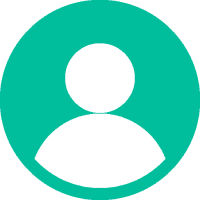
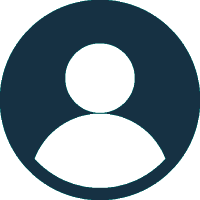
Se agregaron nuevos estilos a iconos

diff --git a/page/admin.html b/page/admin.html
@@ -70,6 +70,8 @@
     <div class="container">
         <div class="row align-items-center h-100">
             <div class="col-12 col-sm-7 col-lg-7 mx-auto">
+              <h1 class="titt text-center titAdm">Agregar servicio</h1>
+              <hr>
                 <form id="form-servicio">
                     <div class="form-row">
                         <div class="col-md-6 mb-3">
@@ -100,11 +102,14 @@
                             <label class="titleFormat" for="validatedCustomFil">Ingresa imagen referente al servicio:</label>
                             
                             <br />
+                            <!--<button id="upload_widget" class="cloudinary-button">Upload files</button>-->
                             <input type="file" class="fileAdd " id="validatedCustomFile" required />
+                            
+
                             <div id="imagenDemo"></div>
                         </div>
                     </div>
-                    <button class="btn btn-addservices btnDef" type="submit" value="add">Agregar Servicio</button>
+                    <button class="btn btn-addservices btnDef float-right" type="submit" value="add">Agregar Servicio</button>
                 </form>
             </div>
         </div>    
@@ -133,7 +138,9 @@
     <!--Bootstrap-->
     <script src="https://cdn.jsdelivr.net/npm/jquery@3.5.1/dist/jquery.slim.min.js" integrity="sha384-DfXdz2htPH0lsSSs5nCTpuj/zy4C+OGpamoFVy38MVBnE+IbbVYUew+OrCXaRkfj" crossorigin="anonymous"></script>
     <script src="https://cdn.jsdelivr.net/npm/bootstrap@4.6.1/dist/js/bootstrap.bundle.min.js" integrity="sha384-fQybjgWLrvvRgtW6bFlB7jaZrFsaBXjsOMm/tB9LTS58ONXgqbR9W8oWht/amnpF" crossorigin="anonymous"></script>
-
+    <!--Cloudinary-->
+    <script src="../js/cloud.js"></script>
+    <script src="https://upload-widget.cloudinary.com/global/all.js" type="text/javascript"></script>  
 
     <!--- <script src="./../js/alertas.js"></script> -->
 </body>

diff --git a/js/nosotros.js b/js/nosotros.js
@@ -75,25 +75,19 @@ let acerca =[
         <div class="card-header-first rounded pb-5">
           <img id="imagen" src="${src}" alt="Sara" class="mx-auto d-block"  />
         </div>
-        <div class="card-body text-center">
+        <div class="card-body text-center cardStyleC">
             <h2 class="card-header-title pt-4">${title}</h2>
             <p class="card-text text-justify pt-2">${desc}</p>
             <p class="card-text text-center">${des2}</p>
             <hr id="line">
-            <div class="social-icons">
-            <a href="${lk}" target="_blank">
-              <button class="button"><img class="icon" src="../img/icons/blue/linkedin.png"/></button>
-              </a> 
-            <a href="${git}" target="_blank"> 
-              <button class="button"><img class="icon" src="../img/icons/blue/github.png"/></button>
-              </a>
-            <a href="${wapp}" target="_blank"> 
-              <button class="button"><img class="icon" src="../img/icons/blue/whatsapp.png"/></button>
-              </a>
-            <a href="${email}" target="_blank"> 
-              <button class="button"><img class="icon" src="../img/icons/blue/correo.png"/></button>
-              </a>
-            </div>      
+            <div class="footerStyleCard">
+            <ul>
+              <li><a href= "${lk}"  class="icon" target="_blank"><i class="fa-brands fa-linkedin-in"></i></a></li>
+              <li><a href= "${git}" class="icon" target="_blank"><i class="fa-brands fa-github"></i></a></li>
+              <li><a href= "${wapp}" class="icon"  target="_blank"><i class="fa-brands fa-whatsapp"></i></a></li>
+              <li><a href= "${email}" class="icon" target="_blank"><i class="fa-solid fa-envelope"></i></a></li>
+            </ul>
+          </div>
         </div>
       </div>
     </div>

diff --git a/styles/nosotros.css b/styles/nosotros.css
@@ -38,7 +38,7 @@
 #imagen{  
     border-radius: 20px;
     width: 180px;
-    box-shadow:1px 5px 15px #a2a2a2;
+    box-shadow:1px 5px 15px #000000;
 }
 
 .card-style{
@@ -160,4 +160,46 @@
 .iconStyle:hover{
   background-color: var(--ColorWhite);
   border-radius: 20px;
+}
+
+/* ICONOS DINAMISCOS*/
+
+/*FOOTER*/
+.footerStyle{
+  background: none;
+  width: 100%;
+  display: flex;
+  justify-content: center;
+  align-items: center; 
+  
+}
+
+.footerStyleCard ul li {
+  display: inline-block;
+  margin: 0 10px;
+  width: 50px;
+  height: 50px;
+  text-align: center;
+  
+  
+}
+.footerStyleCard ul li a{
+  display: block;
+  padding: 0 10px;
+  background-color: var(--colorGreen);
+  border-radius: 50px;
+  color: var(--colorWhite);
+  line-height: 50px;
+  font-size: 23px;
+  box-shadow: 0 3px 5px 0px rgba(0, 0, 0, .2);
+  transition: .2s;
+}
+
+.footerStyleCard ul li a:hover{
+  transform: translateY(-3px) scale(1.05);
+  box-shadow: 0 5px 5px 0px rgba(0, 0, 0, .4);
+}
+.footerStyleCard ul li .icon:hover{
+  background-color: var(--colorWhite);
+  color: var(--colorGreen);
 }

diff --git a/page/registrar.html b/page/registrar.html
@@ -164,9 +164,9 @@
                         </div>
                     </div>
 
-                    <input type="reset" class="col-md-3 col-12 btn btn-col btnDef" value="Limpiar">
-                    <a href="../index.html" type="button" class="col-md-3 col-12 btn btn-col btnDef" data-dismiss="modal">Cancelar</a>
-                    <button type="submit" class="col-md-3 col-12 btn btn-col btnDef">Registrar</button>
+                    <input type="reset" class="col-md-3 col-12 btn btn-col btnClean " value="Limpiar">
+                    <a href="../index.html" type="button" class="col-md-3 col-12 btn btn-col btnCancel" data-dismiss="modal">Cancelar</a>
+                    <button type="submit" class="col-md-3 col-12 btn btn-col btnDef float-right">Registrar</button>
                 </form>
                 <!-- Modal  Terminos y condiciones-->
                 <div class="modal fade" id="staticBackdrop" data-backdrop="static" data-keyboard="false" tabindex="-1" aria-labelledby="staticBackdropLabel" aria-hidden="true">

diff --git a/page/chmod.html b/page/chmod.html
@@ -84,7 +84,11 @@
                         </p>
                         <hr id="line">
                         <div class="social-icons">
-                            <button class="button"><img class="icon" src="../img/icons/blue/web.png" /></button>
+                          <div class="footerStyleCard">
+                            <ul>                     
+                              <li><a href= "" class="icon" target="_blank"><i class="fa-solid fa-globe"></i></a></li>
+                            </ul>
+                        </div>
                         </div>
                     </div>
                 </div>

diff --git a/styles/registrar.css b/styles/registrar.css
@@ -10,3 +10,23 @@
     justify-content: center;
     align-items: center;
 }
+/* Estilos botones*/
+.btnClean{
+    background-color: var(--colorBlueLight);
+    color: var(--colorWhite);
+}
+.btnClean:hover{
+    background-color: var(--colorWhite);
+    color: var(--colorBlueLight);
+    
+}
+
+.btnCancel{
+    background-color: var(--colorBlueClear);
+    color: var(--colorWhite);
+}
+.btnCancel:hover{
+    background-color: var(--colorWhite);
+    color: var(--colorBlueClear);
+    
+}

diff --git a/js/cloud.js b/js/cloud.js
@@ -1,0 +1,12 @@
+var myWidget = cloudinary.createUploadWidget({
+    cloudName: 'dtticbwtn', 
+    uploadPreset: 'default-preset'}, (error, result) => { 
+      if (!error && result && result.event === "success") { 
+        console.log('Done! Here is the image info: ', result.info); 
+      }
+    }
+  )
+  
+  document.getElementById("upload_widget").addEventListener("click", function(){
+      myWidget.open();
+    }, false);

diff --git a/styles/main.css b/styles/main.css
@@ -32,6 +32,7 @@
     --colorGreen: #18BC9C;
     --colorBone: #f8f6f1;
     --colorSkye: #6fc3c5;
+    --colorPurple: rgb(197, 69, 223);
 }
 
 body{

diff --git a/styles/admin.css b/styles/admin.css
@@ -10,3 +10,8 @@
     justify-content: center;
     align-items: center;
 }
+
+.titAdm{
+    margin-top: 100px;
+    margin-bottom: 75px;
+}
